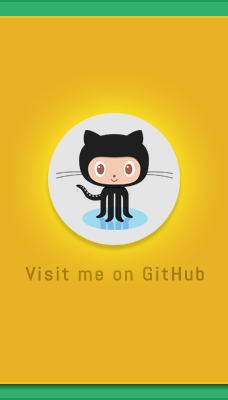
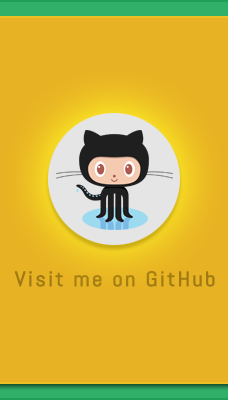
Increase visibility of social button text labels

Changed region(s): [[0.4912, 0.66, 0.9518, 0.72], [0.0614, 0.66, 0.4605, 0.72]]

diff --git a/styles/css/chloe.css b/styles/css/chloe.css
@@ -622,30 +622,37 @@ nav {
     left: 100%; }
   #content #blog {
     padding: 30px 10px 40px 10px; }
-    #content #blog img {
-      max-width: 100%;
-      height: auto; }
-    #content #blog a img, #content #blog a:link img {
-      border-style: solid;
-      border-width: 1px;
-      border-color: #fff; }
-      #content #blog a img:hover, #content #blog a:link img:hover {
-        border-color: #30b069; }
-    #content #blog ul {
-      padding-left: 40px;
-      padding-bottom: 20px; }
-    #content #blog blockquote {
-      color: #a9abaa;
-      padding: 15px 0px 15px 0px; }
     #content #blog .post {
       padding-left: 15px;
       padding-right: 15px; }
+      #content #blog .post p.wp-caption-text {
+        font-size: 12px;
+        color: #888; }
+      #content #blog .post p.wp-caption-text:hover {
+        color: #353b38; }
       #content #blog .post h1 {
         padding-bottom: 0; }
       #content #blog .post .radius_fix {
         padding-bottom: 20px; }
       #content #blog .post .morelink a, #content #blog .post .morelink a:link {
         font-weight: bold; }
+      #content #blog .post img {
+        max-width: 100%;
+        height: auto; }
+      #content #blog .post a img, #content #blog .post a:link img {
+        border-style: solid;
+        border-width: 1px;
+        border-color: #fff; }
+        #content #blog .post a img:hover, #content #blog .post a:link img:hover {
+          border-color: #30b069; }
+      #content #blog .post ul {
+        padding-left: 40px;
+        padding-bottom: 20px; }
+      #content #blog .post blockquote {
+        color: #888;
+        padding: 15px 0px 15px 0px; }
+      #content #blog .post blockquote:hover {
+        color: #353b38; }
     #content #blog .separator {
       height: 1px;
       background-color: #e7b223;

diff --git a/styles/scss/chloe.scss b/styles/scss/chloe.scss
@@ -19,6 +19,7 @@ $chloeLight: #e5e5e5;
 $chloeDark: #282b2a;
 $chloeGrey: #353b38;
 $chloeGreyLight: #a9abaa;
+$chloeGreyMedium: #888888;
 $chloeGold: #e7b223;
 $chloeCopper: #a07a13;
 $chloeGreen: #30b069;
@@ -759,36 +760,17 @@ nav {
   #blog {
     padding: 30px 10px 40px 10px;
 
-    img {
-      @include imgAuto;
-    }
-
-    a, a:link {
-      //
-
-      img {
-        border-style: solid;
-        border-width: 1px;
-        border-color: $chloeWhite;
-      }
-      img:hover {
-        border-color: $chloeGreen;
-      }
-    }
-
-    ul {
-      padding-left: 40px;
-      padding-bottom: 20px;
-    }
-
-    blockquote {
-      color: $chloeGreyLight;
-      padding: 15px 0px 15px 0px;
-    }
-
     .post {
       padding-left: 15px;
       padding-right: 15px;
+
+      p.wp-caption-text {
+        font-size: 12px;
+        color: $chloeGreyMedium;
+      }
+      p.wp-caption-text:hover {
+        color: $chloeGrey;
+      }
 
       h1 {
         padding-bottom: 0;
@@ -804,6 +786,36 @@ nav {
         a, a:link {
           font-weight: bold;
         }
+      }
+
+      img {
+        @include imgAuto;
+      }
+
+      a, a:link {
+        //
+
+        img {
+          border-style: solid;
+          border-width: 1px;
+          border-color: $chloeWhite;
+        }
+        img:hover {
+          border-color: $chloeGreen;
+        }
+      }
+
+      ul {
+        padding-left: 40px;
+        padding-bottom: 20px;
+      }
+
+      blockquote {
+        color: $chloeGreyMedium;
+        padding: 15px 0px 15px 0px;
+      }
+      blockquote:hover {
+        color: $chloeGrey;
       }
     }
 

diff --git a/style.css b/style.css
@@ -1,6 +1,6 @@
 /*
 Theme Name: May Contain Chloe
-Version: 1.5
+Version: 1.52
 Theme URI: http://www.chloeunrau.com
 Author: Chloe Unrau
 Author URI: http://www.chloeunrau.com

diff --git a/functions.php b/functions.php
@@ -49,4 +49,31 @@ function my_more_link( $more_link, $more_link_text ) {
 
 
 
+/* Filter the Image Captions for Responsiveness */
+add_filter( 'img_caption_shortcode', 'bs_responsive_img_caption_filter', 10, 3 );
+function bs_responsive_img_caption_filter( $val, $attr, $content = null ) {
+  extract( shortcode_atts( array(
+    'id' => '',
+    'align' => '',
+    'width' => '',
+    'caption' => ''
+    ), $attr
+  ) );
+
+  if ( 1 > (int) $width || empty( $caption ) )
+    return $val;
+
+  $new_caption = sprintf( '<div id="%1$s" class="wp-caption %2$s" style="max-width:100%% !important;height:auto;width:auto;">%4$s<p class="wp-caption-text">%5$s</p></div>',
+    esc_attr( $id ),
+    esc_attr( $align ),
+    '', //( 10 + (int) $width ),
+    do_shortcode( $content ),
+    $caption
+  );
+  return $new_caption;
+}
+
+
+
+
 ?>
